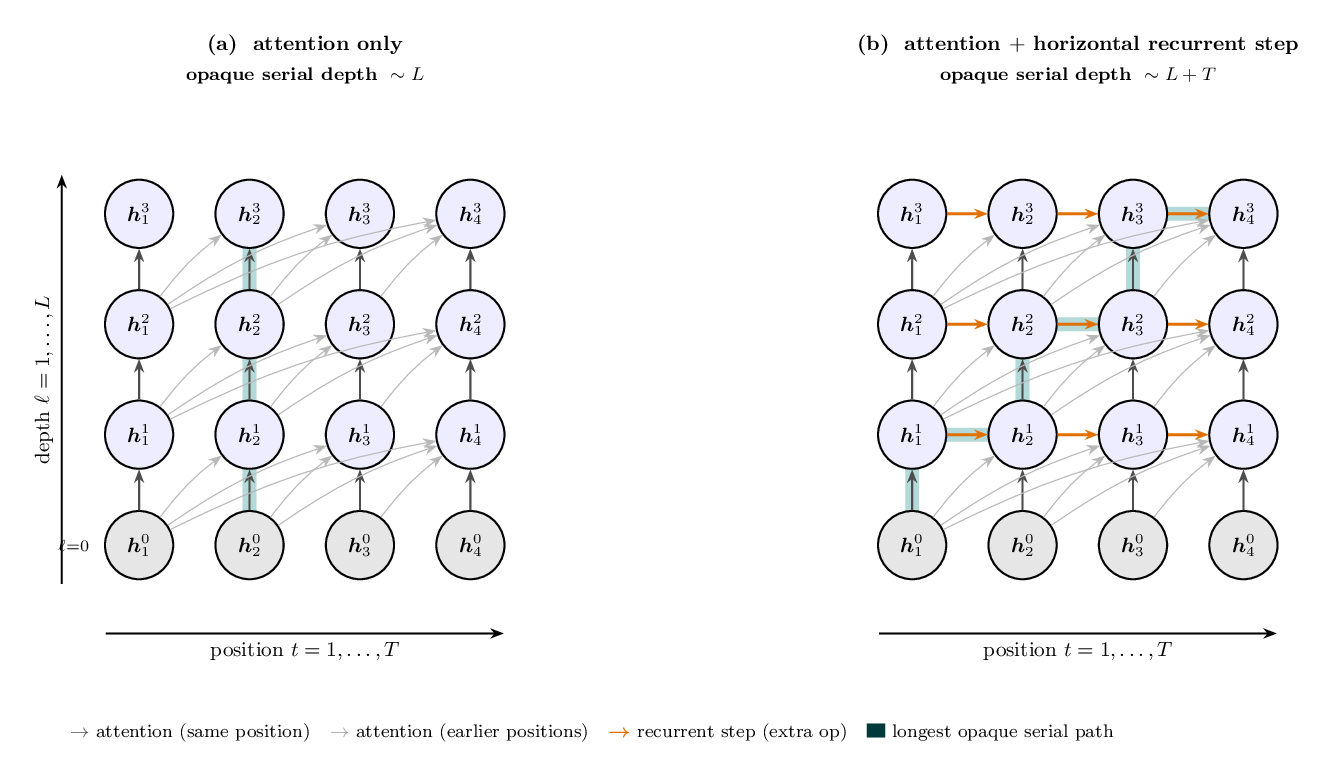
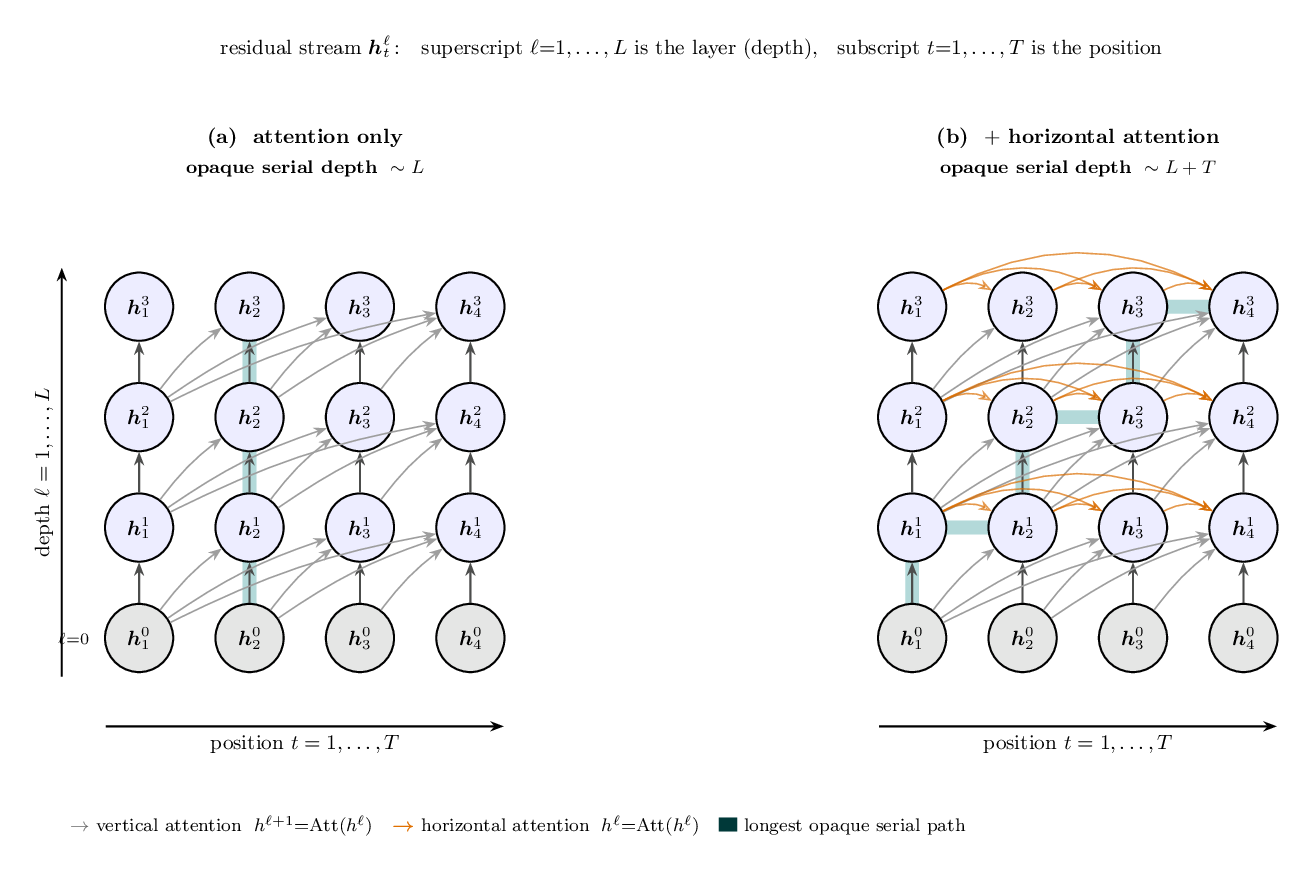
Revise opaque-serial-depth: math Att, aligned code, horizontal-attention figure
Tighten the post: define attention as a two-line math expression (bold vectors,
causal sum over t' <= t) instead of code; keep the layer loop unrolled side by side
with blank lines aligning the two variants; drop the redundant math table. Reframe
the extra operation as a horizontal attention h^l = Att(h^l), drawn as a curved
orange causal fan in the figure, and add a suptitle spelling out the index
convention (superscript = layer, subscript = position).

diff --git a/content/misc/opaque-serial-depth/opaque_serial_depth.tex b/content/misc/opaque-serial-depth/opaque_serial_depth.tex
@@ -8,9 +8,9 @@
   x=1.7cm, y=1.7cm,
   hnode/.style={circle, draw=black, thick, minimum size=10.5mm, inner sep=0pt, fill=blue!7, font=\small},
   inode/.style={circle, draw=black, thick, minimum size=10.5mm, inner sep=0pt, fill=black!10, font=\small},
-  vedge/.style={->, draw=black!70, thick},                 % attention: same position (vertical)
-  vatt/.style ={->, draw=black!28, thin},                  % attention: earlier positions
-  hrec/.style ={->, draw=orange!88!black, very thick},     % recurrent step (the extra op)
+  vedge/.style={->, draw=black!70, thick},                 % vertical attention: same position
+  vatt/.style ={->, draw=black!38, semithick},             % vertical attention: earlier positions
+  hatt/.style ={->, draw=orange!85!black, semithick, opacity=0.7},  % horizontal attention (causal fan)
   crit/.style ={line width=6pt, draw=teal!30, line cap=round, line join=round},
   ptitle/.style={font=\bfseries\small},
 ]
@@ -43,10 +43,12 @@
         \foreach \tp in {1,...,\tm}{ \draw[vatt] (b\lp\tp) to[bend left=8] (b\l\t); }
       \fi
   }}
-  % additional horizontal (recurrent) operation
-  \foreach \l in {1,...,\L}{ \foreach \t in {2,...,\T}{ \pgfmathtruncatemacro{\tm}{\t-1}
-    \draw[hrec] (b\l\tm) -- (b\l\t);
-  }}
+  % horizontal attention: every earlier position in a layer flows into each later one
+  \foreach \l in {1,...,\L}{
+    \foreach \t in {2,...,\T}{ \pgfmathtruncatemacro{\tm}{\t-1}
+      \foreach \tp in {1,...,\tm}{ \draw[hatt] (b\l\tp) to[bend left=28] (b\l\t); }
+    }
+  }
 \end{scope}
 
 % ============================== critical paths (background) ==============================
@@ -60,7 +62,12 @@
 \node[ptitle,align=center] at (2.5,4.4)
    {(a)\; attention only\\[2pt]\footnotesize opaque serial depth $\;\sim L$};
 \node[ptitle,align=center] at (\S+2.5,4.4)
-   {(b)\; attention $+$ horizontal recurrent step\\[2pt]\footnotesize opaque serial depth $\;\sim L+T$};
+   {(b)\; $+$ horizontal attention\\[2pt]\footnotesize opaque serial depth $\;\sim L+T$};
+
+% overall caption: index convention
+\node[align=center,font=\small] at (\S/2+2.5,5.35)
+   {residual stream $\bm h^{\ell}_{t}$\,:\;\; superscript $\ell{=}1,\dots,L$ is the layer (depth),\;\;
+    subscript $t{=}1,\dots,T$ is the position};
 
 % ============================== axes ==============================
 % depth axis (left of panel a)
@@ -75,9 +82,8 @@
 
 % ============================== legend ==============================
 \node[anchor=west,align=left,font=\footnotesize] at (0.3,-1.7)
- {\textcolor{black!70}{$\rightarrow$}~attention (same position)\quad
-  \textcolor{black!40}{$\rightarrow$}~attention (earlier positions)\quad
-  \textcolor{orange!88!black}{$\boldsymbol\rightarrow$}~recurrent step (extra op)\quad
+ {\textcolor{black!60}{$\rightarrow$}~vertical attention $\;h^{\ell+1}{=}\mathrm{Att}(h^{\ell})$\quad
+  \textcolor{orange!88!black}{$\boldsymbol\rightarrow$}~horizontal attention $\;h^{\ell}{=}\mathrm{Att}(h^{\ell})$\quad
   \textcolor{teal!45!black}{\rule{8pt}{6pt}}~longest opaque serial path};
 \end{tikzpicture}
 \end{document}

diff --git a/content/misc/opaque-serial-depth/index.md b/content/misc/opaque-serial-depth/index.md
@@ -1,87 +1,88 @@
 ---
 title: Opaque serial depth
 subtitle: How much can a transformer reason without saying anything?
-summary: A two-variant graphical model of "opaque serial depth" — the longest serial computation a model can do inside its forward pass without externalising steps as chain-of-thought tokens. Plain causal attention is bounded by the number of layers L; an extra horizontal (recurrent) operation pushes it to L+T. After Rohin Shah's explanation on the 80,000 Hours podcast.
+summary: Opaque serial depth — the longest serial computation a transformer can do inside its forward pass without externalising steps as chain of thought. Stacking attention vertically is bounded by depth L; adding a horizontal attention (same layer on both sides) makes it L+T. After Rohin Shah on the 80,000 Hours podcast.
 date: 2026-06-08
 ---
 
-In a [recent 80,000 Hours podcast](https://80000hours.org/podcast/episodes/rohin-shah-google-deepmind-agi-safety/),
-Rohin Shah (Google DeepMind) describes why today's models are **"wide but shallow"**:
-current hardware lets them do an enormous amount of work *in parallel*, but only a
-limited number of *sequential* steps within a single forward pass. Reasoning that
-needs more serial steps has to spill out into the chain of thought — tokens a human
-can read.
+On the [80,000 Hours podcast](https://80000hours.org/podcast/episodes/rohin-shah-google-deepmind-agi-safety/),
+Rohin Shah calls today's transformers **wide but shallow** — lots of parallel work per
+forward pass, but few *sequential* steps; deeper serial reasoning has to spill into the
+chain of thought, as tokens you can read. He and colleagues
+([Brown-Cohen, Lindner & Shah, 2026](https://arxiv.org/abs/2603.09786)) formalise the
+limit as **opaque serial depth**: the longest computation a network can do *without*
+interpretable intermediate steps like chain of thought.
 
-He and colleagues make this precise in [*Quantifying the Necessity of Chain of Thought
-through Opaque Serial Depth*](https://arxiv.org/abs/2603.09786) (Brown-Cohen, Lindner
-& Shah, 2026). The **opaque serial depth** is
+![Two graphical models of a transformer residual stream: (a) attention only, longest serial path is a vertical chain of length ~L; (b) with an added horizontal attention, the path zig-zags up and across for length ~L+T.](opaque_serial_depth.png)
 
-> the length of the longest computation that can be done without the use of
-> interpretable intermediate steps like chain of thought.
+Take one causal-attention block $\mathrm{Att}$ (defined below). Stacking it the usual,
+*vertical* way, $h^{\ell+1}=\mathrm{Att}(h^{\ell})$, only ever reads a **finished** layer,
+so all positions run in parallel and depth is the lone serial axis: $\sim L$. A
+**horizontal attention** $h^{\ell}=\mathrm{Att}(h^{\ell})$ — same layer on both sides —
+reads the layer **being written**, so it resolves left-to-right across positions, and the
+longest dependency path now threads up $L$ layers *and* across $T$ positions: $\sim L+T$
+(the staircase above).
 
-In residual-stream terms: the longest chain of dependencies you can trace through the
-network *between* legible token-bottlenecks. The figure traces that longest chain
-(highlighted) for two architectures.
+One causal-attention block $\mathrm{Att}$: at query position $t$ it sums over the key
+positions $t'\le t$ — the arcs in the figure — with $\boldsymbol q_t=W_Q\boldsymbol h_t$,
+$\boldsymbol k_{t'}=W_K\boldsymbol h_{t'}$, $\boldsymbol v_{t'}=W_V\boldsymbol h_{t'}$:
 
-![Two graphical models of a transformer residual stream. (a) attention only: the longest serial path is a vertical chain of length ~L. (b) with an extra horizontal recurrent step: the path zig-zags up and across for length ~L+T.](opaque_serial_depth.png)
+$$
+\begin{aligned}
+\mathrm{Att}(\boldsymbol h)_t
+&= \sum_{t'\le t}\big(W_Q\boldsymbol h_t \cdot W_K\boldsymbol h_{t'}\big)\,W_V\boldsymbol h_{t'} \\
+&= \sum_{t'\le t}\big(\boldsymbol q_t\cdot \boldsymbol k_{t'}\big)\,\boldsymbol v_{t'}
+\end{aligned}
+$$
 
-Notation: residual stream $\boldsymbol h^{\ell}_{t}$, depth $\ell = 1,\dots,L$
-(bottom→top, with $\ell = 0$ the token embeddings), positions $t = 1,\dots,T$
-(left→right).
+(scores softmax-normalised over $t'$). Unrolling the layer loop — the only difference is
+the extra horizontal lines on the right:
 
-## (a) Attention only — depth $\sim L$
+<div style="display:flex;gap:1.25rem;flex-wrap:wrap;margin:1.25rem 0">
+<div style="flex:1 1 320px;min-width:0">
 
-Causal attention lets $\boldsymbol h^{\ell}_{t}$ read *every* earlier position
-$\{\boldsymbol h^{\ell-1}_{t'} : t' \le t\}$ of the layer below **in parallel** — a
-single attention operation, a weighted sum over $t'$. No position has to wait for
-another position to finish, so the only genuinely *serial* thing is climbing the $L$
-layers. The longest opaque chain is just the vertical
-$\boldsymbol h^{0}_{t} \to \boldsymbol h^{1}_{t} \to \dots \to \boldsymbol h^{L}_{t}$,
-of length $\sim L$. (Each layer adds a little fan-in depth for the softmax over $T$
-keys, giving $\mathcal{O}\!\big(L(\log T + \log D)\big)$ overall.)
+**(a) attention only**
 
-```text
-Algorithm (a): standard transformer layer            # opaque serial depth ~ L
-for l = 1 … L:                          # L serial layers
-    for t = 1 … T   (in parallel):      # every position at once
-        q, k, v = W_Q h^{l-1}_t , W_K h^{l-1}_t , W_V h^{l-1}_t
-        a^l_t   = sum_{t' <= t}  softmax_{t'}( q·k_{t'} / sqrt(d) ) · v_{t'}   # attend DOWN to layer l-1
-        h^l_t   = h^{l-1}_t + a^l_t                                           # residual
-# longest serial chain:   h^l_t <- h^{l-1}_t <- … <- h^0_t      =>   ~ L steps
+```python
+h1 = attn(h0)     # h^1 = Att(h^0)
+
+h2 = attn(h1)     # h^2 = Att(h^1)
+
+h3 = attn(h2)     # h^3 = Att(h^2)
+# ... L layers      depth ~ L
 ```
 
-## (b) Add a horizontal recurrent step — depth $\sim L+T$
+</div>
+<div style="flex:1 1 320px;min-width:0">
 
-Now give the attention block **one extra operation**: besides reading the layer below,
-each position also reads the *same layer's previous position*
-$\boldsymbol h^{\ell}_{t-1}$ (the orange arrows). Positions can no longer be computed
-all at once — $\boldsymbol h^{\ell}_{t}$ depends on $\boldsymbol h^{\ell}_{t-1}$, so the
-layer must run **sequentially in $t$**. The longest opaque chain can now zig-zag:
-up a layer, across a token, up a layer, … using up to $L$ vertical steps **and** $T$
-horizontal ones, for depth $\sim L+T$ ($\mathcal{O}\!\big((L+T)\log D\big)$). Far more
-hidden serial reasoning can happen before anything has to surface as a token.
+**(b) + horizontal attention**
 
-```text
-Algorithm (b): + horizontal recurrence                # opaque serial depth ~ L + T
-for l = 1 … L:
-    for t = 1 … T   (now SEQUENTIAL in t):
-        q, k, v = W_Q h^{l-1}_t , W_K h^{l-1}_t , W_V h^{l-1}_t
-        a^l_t   = sum_{t' <= t}  softmax_{t'}( q·k_{t'} / sqrt(d) ) · v_{t'}  # attend DOWN to layer l-1
-        r^l_t   = g( h^l_{t-1} , h^{l-1}_t )        # <-- EXTRA horizontal op: same layer, previous position
-        h^l_t   = h^{l-1}_t + a^l_t + r^l_t                                   # residual
-# now h^l_t depends on h^l_{t-1}  =>  the longest chain zig-zags ↑ and →   =>   ~ L + T steps
+```python
+h1 = attn(h0)     # h^1 = Att(h^0)
+h1 = attn(h1)     # h^1 = Att(h^1)   <- horizontal
+h2 = attn(h1)     # h^2 = Att(h^1)
+h2 = attn(h2)     # h^2 = Att(h^2)   <- horizontal
+h3 = attn(h2)     # h^3 = Att(h^2)
+h3 = attn(h3)     # h^3 = Att(h^3)   <- horizontal
+# ...               depth ~ L + T
 ```
 
-Why it matters for oversight: the larger a model's opaque serial depth, the more
-reasoning it can carry out inside one forward pass instead of writing it down. The
-paper computes upper bounds for Gemma 3 and argues opaque serial depth could become an
-architecture-level governance knob — e.g. Mixture-of-Experts models appear to have
-*lower* opaque depth than comparable dense models.
+</div>
+</div>
+
+The horizontal lines feed `h` straight back into the same block — $h^{\ell}$ on both
+sides — so, unlike the vertical lines, they can't be parallelised over positions: vertical
+$\mathrm{Att}$ moves $\ell\!\to\!\ell\!+\!1$ and parallelises, horizontal $\mathrm{Att}$
+stays at $\ell$ and serialises (the blank lines on the left mark exactly what (b) adds).
+
+Bigger opaque serial depth means more reasoning hidden inside one forward pass instead of
+written down — which is why it's floated as an architecture-level safety metric (the paper
+bounds it for Gemma 3, and finds Mixture-of-Experts models lower than dense ones).
 
 ---
 
-*Sources: [Rohin Shah — 80,000 Hours podcast](https://80000hours.org/podcast/episodes/rohin-shah-google-deepmind-agi-safety/)
-· [Quantifying the Necessity of Chain of Thought through Opaque Serial Depth, arXiv:2603.09786](https://arxiv.org/abs/2603.09786).
-Figure: [PDF](opaque_serial_depth.pdf) · [TikZ source](opaque_serial_depth.tex). The
-horizontal-recurrence variant drawn here is a simplified illustration; the paper's
-$L+T$ result is derived for replacing attention with RNN blocks.*
+*[Rohin Shah — 80,000 Hours](https://80000hours.org/podcast/episodes/rohin-shah-google-deepmind-agi-safety/)
+· [arXiv:2603.09786](https://arxiv.org/abs/2603.09786)
+· figure [PDF](opaque_serial_depth.pdf) / [TikZ](opaque_serial_depth.tex). The horizontal
+variant is a simplified illustration; the paper derives $L+T$ for replacing attention with
+RNN blocks.*